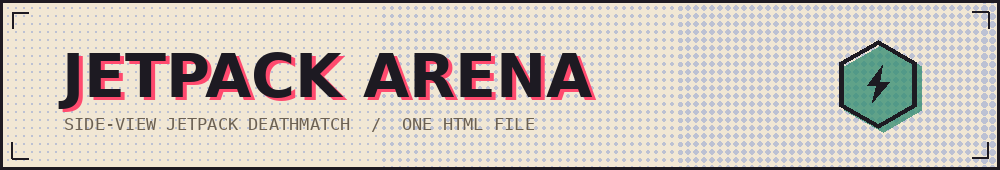
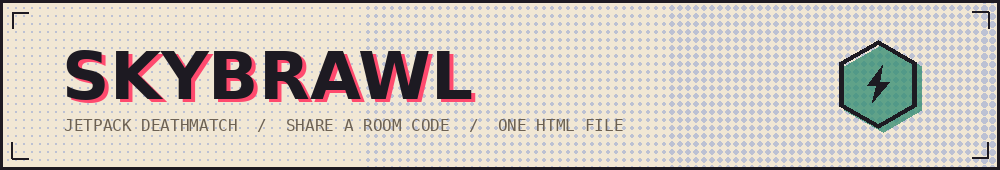
Rename to Skybrawl

Changed region(s): [[0.031, 0.2941, 0.62, 0.7941]]

diff --git a/index.html b/index.html
@@ -2,9 +2,9 @@
 <html lang="en">
 <head>
 <meta charset="utf-8" />
-<title>Jetpack Arena</title>
+<title>Skybrawl</title>
 <meta name="viewport" content="width=device-width, initial-scale=1, viewport-fit=cover" />
-<meta name="description" content="Jetpack Arena - a browser jetpack deathmatch. Share a four character room code and play from separate devices." />
+<meta name="description" content="Skybrawl - a browser jetpack deathmatch. Share a four character room code and play from separate devices." />
 <meta name="theme-color" content="#E8DCC6" />
 <style>
   :root{ padding: env(safe-area-inset-top, 0px) 0 env(safe-area-inset-bottom, 0px); }
@@ -294,8 +294,8 @@ tr.you td:first-child{font-weight:600}
     <button class="abBtn" id="abBtn" type="button">SKILL</button>
 
     <div class="screen" id="lobby">
-      <div class="eyebrow">Visual demo</div>
-      <h1>Jetpack Arena</h1>
+      <div class="eyebrow">Room code multiplayer</div>
+      <h1>Skybrawl</h1>
       <div class="room">ROOM <b>JX-9021</b> &middot; ARENA <b id="roomMap">NEON SKYLINE</b></div>
       <div class="roster" id="roster"></div>
       <p class="hint">Each pilot flies differently. <b>Armour</b>, <b>speed</b> and <b>fuel</b> are on the cards, and every pilot brings one skill on a cooldown.</p>
@@ -416,7 +416,7 @@ tr.you td:first-child{font-weight:600}
   function pw(p) { return (p.fx && p.fx.until > game.t) ? p.fx.id : null; }
 
   var FX_LEVEL = 'full';
-  try { FX_LEVEL = localStorage.getItem('ja_fx') || 'full'; } catch (e) {}
+  try { FX_LEVEL = localStorage.getItem('sb_fx') || 'full'; } catch (e) {}
   function fxScale() { return FX_LEVEL === 'off' ? 0 : FX_LEVEL === 'lite' ? 0.45 : 1; }
 
   // Jet infantry, drawn from the hips out. Origin sits at the middle of the body.
@@ -621,7 +621,7 @@ tr.you td:first-child{font-weight:600}
 
   // ---------- sound: everything synthesised, nothing loaded ----------
   var AC = null, master = null, noiseBuf = null, jetGain = null, jetFilt = null, muted = false;
-  try { muted = localStorage.getItem('ja_mute') === '1'; } catch (e) {}
+  try { muted = localStorage.getItem('sb_mute') === '1'; } catch (e) {}
 
   function initAudio() {
     if (AC) { if (AC.state === 'suspended') AC.resume(); return; }
@@ -711,7 +711,7 @@ tr.you td:first-child{font-weight:600}
   function setMuted(m) {
     muted = m;
     if (master) master.gain.value = muted ? 0 : 0.45;
-    try { localStorage.setItem('ja_mute', muted ? '1' : '0'); } catch (e) {}
+    try { localStorage.setItem('sb_mute', muted ? '1' : '0'); } catch (e) {}
     var b = document.getElementById('sndBtn');
     if (b) { b.textContent = muted ? 'SOUND OFF' : 'SOUND ON'; b.classList.toggle('off', muted); }
   }
@@ -2624,7 +2624,7 @@ tr.you td:first-child{font-weight:600}
     for (var i = 0; i < 4; i++) c += CODE_CHARS[(Math.random() * CODE_CHARS.length) | 0];
     return c;
   }
-  function peerIdFor(code) { return 'jpa-2f7-' + code; }
+  function peerIdFor(code) { return 'skybrawl-2f7-' + code; }
 
   function netStatus(text, bad) {
     NET.status = text;
@@ -2872,7 +2872,7 @@ tr.you td:first-child{font-weight:600}
     var won = order[0] === me;
     el.hud.hidden = true;
     el.result.hidden = false;
-    el.resEyebrow.textContent = won ? 'Jetpack Arena' : 'Match over';
+    el.resEyebrow.textContent = won ? 'Skybrawl' : 'Match over';
     el.resTitle.textContent = won ? 'Victory' : (me.kills === order[0].kills ? 'Tied' : 'Defeat');
     SFX.over(won); buzz(won ? [60, 60, 60, 60, 140] : [200]);
     el.board.innerHTML = '';
@@ -2912,7 +2912,7 @@ tr.you td:first-child{font-weight:600}
   var FX_ORDER = ['full', 'lite', 'off'];
   function setFx(v) {
     FX_LEVEL = v;
-    try { localStorage.setItem('ja_fx', v); } catch (e) {}
+    try { localStorage.setItem('sb_fx', v); } catch (e) {}
     var b = document.getElementById('fxBtn');
     b.textContent = 'Effects ' + v;
     b.classList.toggle('off', v === 'off');

diff --git a/README.md b/README.md
@@ -1,8 +1,8 @@
-<img src="banner.png" width="100%" alt="Jetpack Arena" />
+<img src="banner.png" width="100%" alt="Skybrawl" />
 
-**Jetpack Arena** is a side-view jetpack deathmatch that runs in a browser tab. No install, no account, no build step: one HTML file, plain JavaScript, canvas for everything.
+**Skybrawl** is a side-view jetpack deathmatch that runs in a browser tab. No install, no account, no build step: one HTML file, plain JavaScript, canvas for everything.
 
-Live: **https://asra-iram.github.io/jetpack-arena/**
+Live: **https://asra-iram.github.io/skybrawl/**
 
 ## Rooms
 
